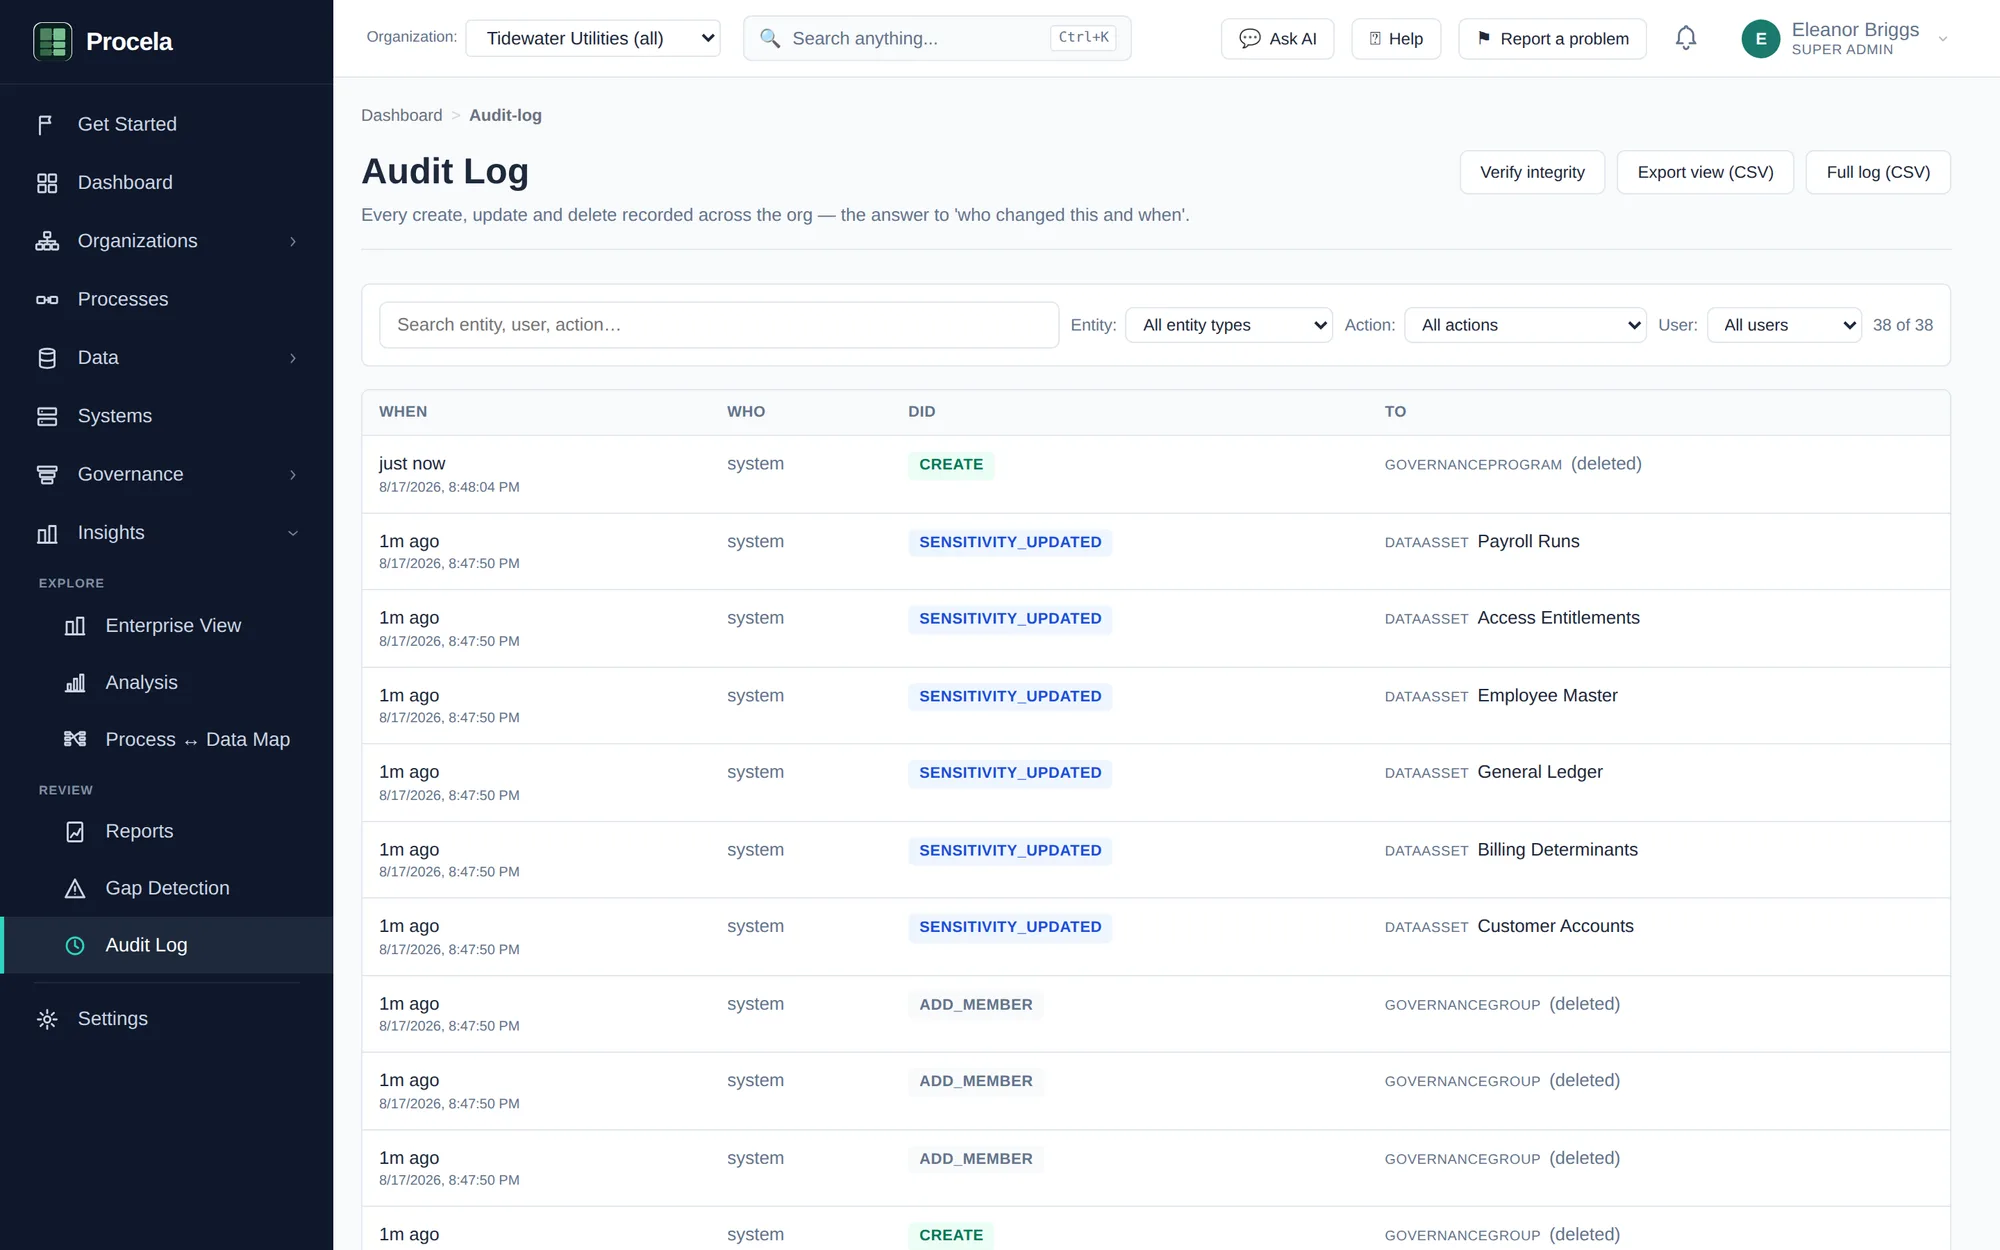
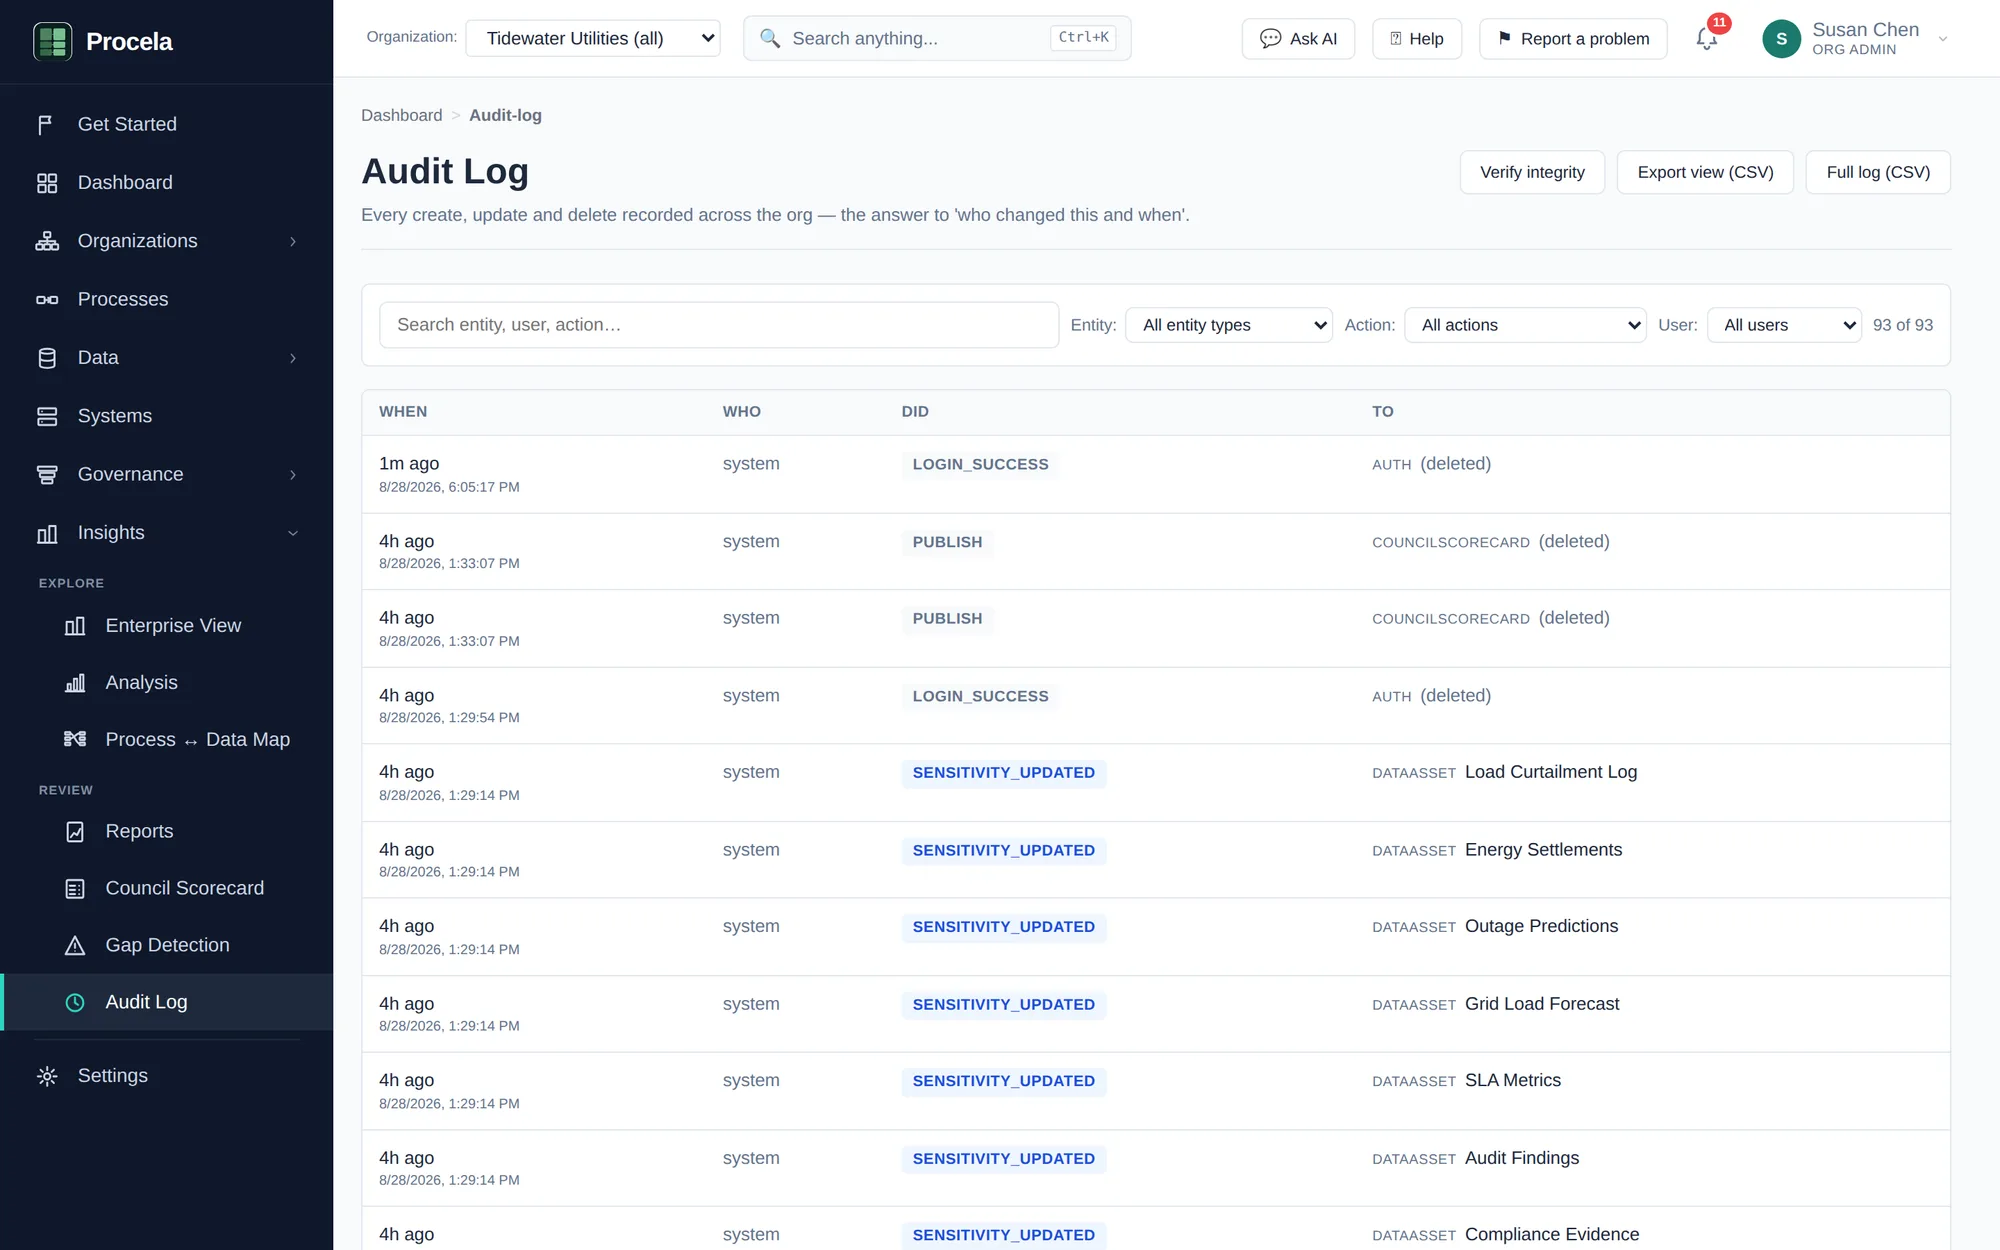
Showcase: reorder tabs, drop Maturity, add Data assets (#50)
New switcher order: Council scorecard, Enterprise view, Data assets,
Systems, Audit log. Remove the Maturity tab. Add a Data assets tab
(the data-asset registry with sensitivity classification, tier, domain
and owner). Refresh the Enterprise view, Systems and Audit log
screenshots from the live product with the fuller, classified demo data.

Claude-Session: https://claude.ai/code/session_01KJa1GsMMHLvb8vFejFkGtX

diff --git a/components/ProductShowcase.tsx b/components/ProductShowcase.tsx
@@ -18,17 +18,6 @@ type View = {
 
 const VIEWS: View[] = [
   {
-    id: "systems",
-    tab: "Systems",
-    kicker: "Catalog",
-    heading: "Every system, with an owner",
-    body: "Catalog the systems across your estate — each mapped to a named owner and steward, discovered by metadata-only edge agents. No more guessing who's accountable.",
-    href: "/platform",
-    src: "/screenshots/systems.webp",
-    alt: "Procela systems catalog listing enterprise systems with their type, business criticality, and assigned owner.",
-    url: "app.procela.ai/systems",
-  },
-  {
     id: "council",
     tab: "Council scorecard",
     kicker: "Governance",
@@ -40,15 +29,37 @@ const VIEWS: View[] = [
     url: "app.procela.ai/council-scorecard",
   },
   {
-    id: "scorecard",
-    tab: "Maturity",
-    kicker: "Maturity",
-    heading: "Know exactly where your program stands",
-    body: "A governance maturity scorecard across every dimension — process documentation, data governance, domain and people coverage — so you can show progress and see what to fix next.",
+    id: "enterprise",
+    tab: "Enterprise view",
+    kicker: "Visibility",
+    heading: "The whole estate in one view",
+    body: "See processes, systems, data assets, domains and people connected across the organization — the full picture of your governance program, not scattered spreadsheets.",
     href: "/platform",
-    src: "/screenshots/scorecard.webp",
-    alt: "Procela governance maturity scorecard showing an overall maturity score with dimension breakdowns for process documentation, data governance, domain coverage, governance structure, and people coverage.",
-    url: "app.procela.ai/scorecard",
+    src: "/screenshots/enterprise.webp",
+    alt: "Procela enterprise view diagram showing processes, systems, data assets, domains, and people connected across the organization.",
+    url: "app.procela.ai/enterprise-view",
+  },
+  {
+    id: "data-assets",
+    tab: "Data assets",
+    kicker: "Catalog",
+    heading: "Every data asset, classified and owned",
+    body: "One registry for every data asset — with sensitivity classification, a governance tier, a named owner, and the health rules that read over it. Discovered automatically, or added by hand.",
+    href: "/platform",
+    src: "/screenshots/data-assets.webp",
+    alt: "Procela data asset registry listing assets with sensitivity tags, governance tier, domain, and owner.",
+    url: "app.procela.ai/data-assets",
+  },
+  {
+    id: "systems",
+    tab: "Systems",
+    kicker: "Inventory",
+    heading: "Every system, with an owner",
+    body: "Catalog the systems across your estate — each mapped to a named owner and steward, discovered by metadata-only edge agents. No more guessing who's accountable.",
+    href: "/platform",
+    src: "/screenshots/systems.webp",
+    alt: "Procela systems catalog listing enterprise systems with their type, business criticality, and assigned owner.",
+    url: "app.procela.ai/systems",
   },
   {
     id: "audit",
@@ -58,19 +69,8 @@ const VIEWS: View[] = [
     body: "Every classification, assignment and policy change is captured in a tamper-evident, attributable log tied to a named principal — human or AI. Audits become a query.",
     href: "/security",
     src: "/screenshots/audit.webp",
-    alt: "Procela audit log listing time-stamped create, update, and login events with the responsible actor.",
+    alt: "Procela audit log listing time-stamped create, update, sensitivity, and login events with the responsible actor.",
     url: "app.procela.ai/audit-log",
-  },
-  {
-    id: "enterprise",
-    tab: "Enterprise view",
-    kicker: "Visibility",
-    heading: "The whole estate in one view",
-    body: "See systems, data assets, domains and people connected across the organization — the full picture of your governance program, not scattered spreadsheets.",
-    href: "/platform",
-    src: "/screenshots/enterprise.webp",
-    alt: "Procela enterprise view showing systems, data assets, domains, and people connected across the organization.",
-    url: "app.procela.ai/enterprise-view",
   },
 ];
 
